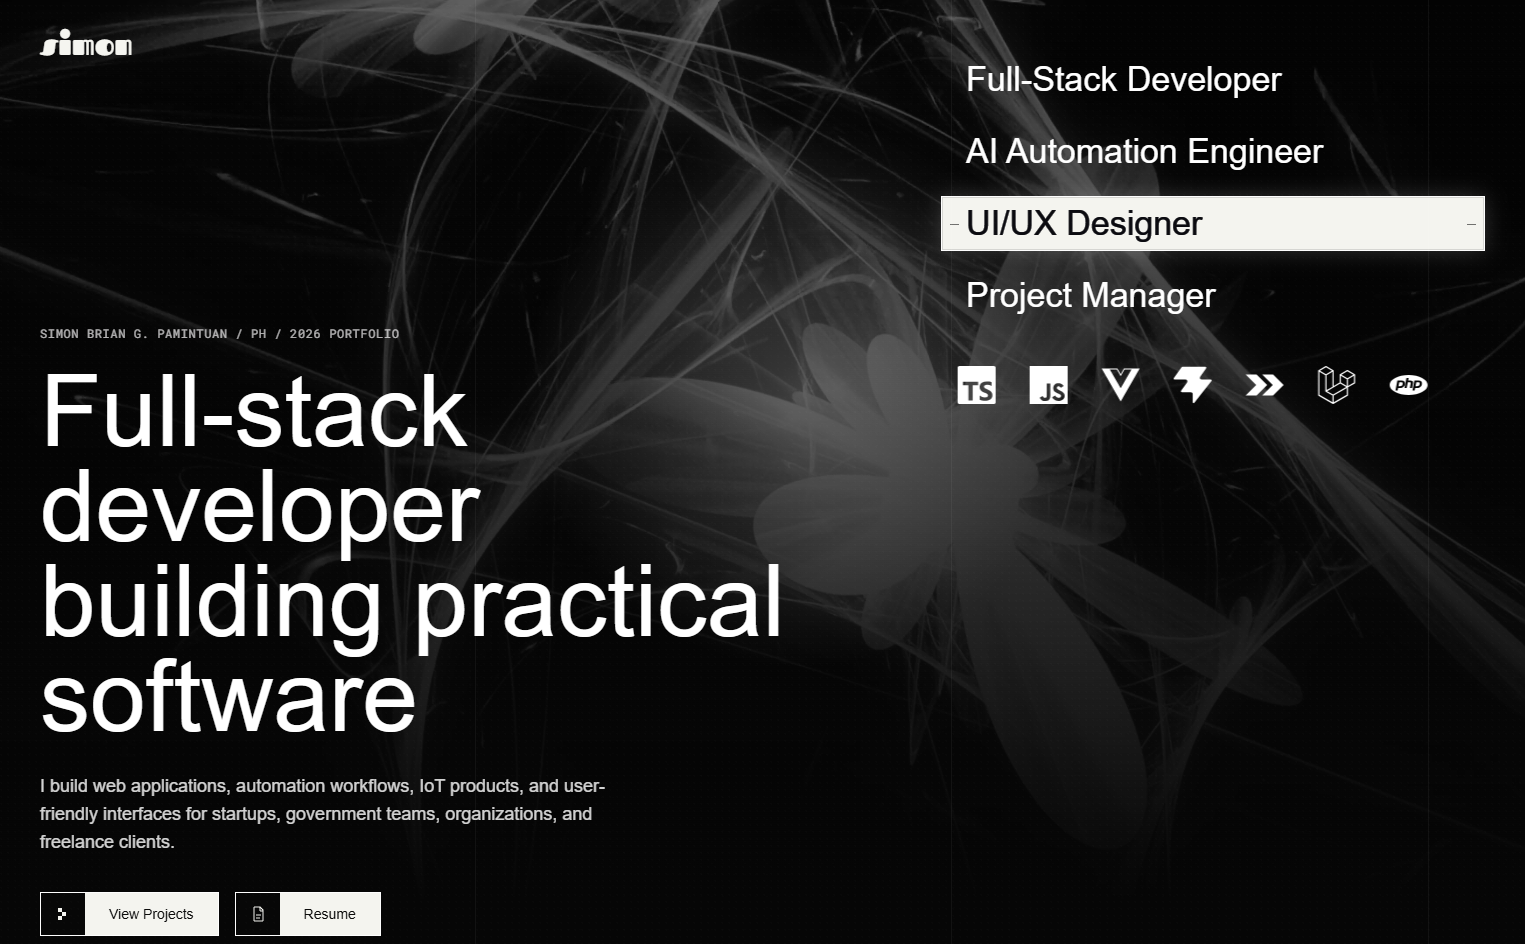
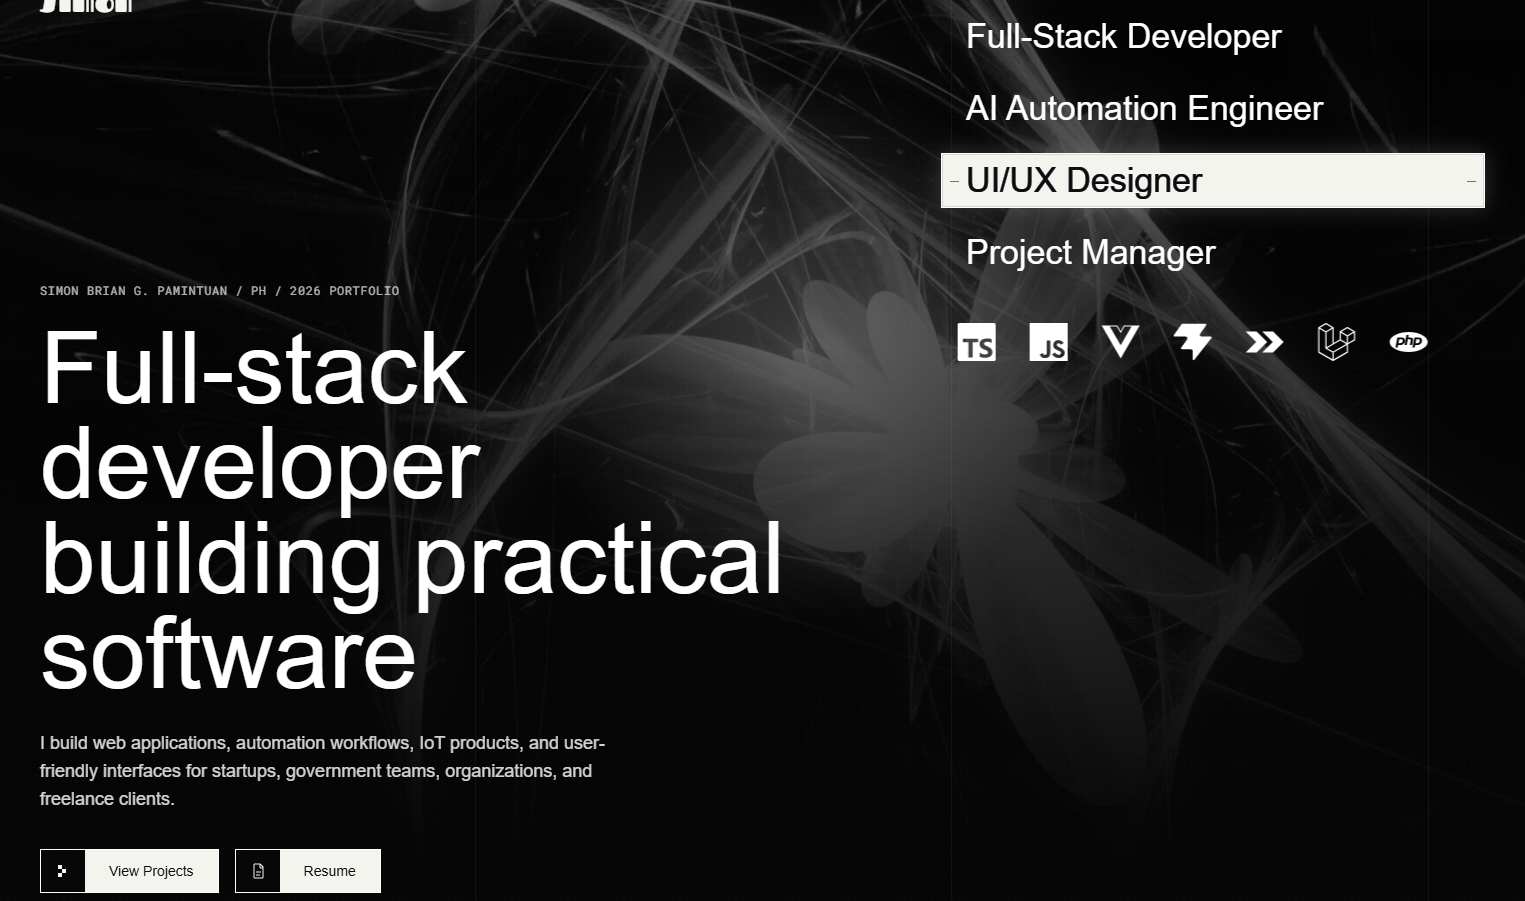
Final Furnish

diff --git a/src/index.css b/src/index.css
@@ -734,22 +734,6 @@ body {
   height: 46%;
 }
 
-.portfolio-hero__scroll {
-  position: absolute;
-  right: 6vw;
-  bottom: 26px;
-  display: flex;
-  align-items: center;
-  gap: 8px;
-  color: var(--portfolio-ink);
-  font-size: 12px;
-  font-weight: 700;
-  text-decoration: none;
-  text-transform: uppercase;
-  letter-spacing: 0.1em;
-  z-index: 4;
-}
-
 .portfolio-intro {
   position: relative;
   z-index: 3;
@@ -928,9 +912,17 @@ body {
   color: rgba(246, 247, 244, 0.66);
 }
 
+.work-card:nth-child(even) .work-card__disciplines {
+  border-color: rgba(246, 247, 244, 0.22);
+}
+
+.work-card:nth-child(even) .work-card__disciplines > p {
+  color: rgba(246, 247, 244, 0.48);
+}
+
 .work-card:nth-child(even) li {
+  border-color: rgba(246, 247, 244, 0.2);
   color: var(--portfolio-paper);
-  background: color-mix(in srgb, var(--project-accent) 28%, var(--portfolio-ink));
 }
 
 .work-card:nth-child(even) .work-card__footer a,
@@ -1036,23 +1028,70 @@ body {
   line-height: 1.7;
 }
 
-.work-card ul {
+.work-card__disciplines {
+  display: grid;
+  grid-template-columns: 30px minmax(0, 1fr);
+  gap: 16px;
+  align-items: stretch;
+  margin-top: 34px;
+}
+
+.work-card__disciplines > p {
+  align-self: stretch;
   display: flex;
-  flex-wrap: wrap;
-  gap: 6px;
-  margin: 24px 0 0;
+  align-items: flex-end;
+  margin: 0;
+  color: rgba(17, 21, 17, 0.46);
+  font-size: 9px;
+  font-weight: 800;
+  letter-spacing: 0.14em;
+  text-transform: uppercase;
+  writing-mode: vertical-rl;
+  transform: rotate(180deg);
+}
+
+.work-card ul {
+  counter-reset: focus-item;
+  display: flex;
+  flex-direction: column;
+  gap: 0;
+  margin: 0;
   padding: 0;
   list-style: none;
 }
 
 .work-card li {
-  padding: 6px 10px;
-  border-radius: 999px;
-  background: color-mix(in srgb, var(--project-accent) 28%, white);
-  font-size: 9px;
-  font-weight: 700;
+  counter-increment: focus-item;
+  display: grid;
+  grid-template-columns: 42px minmax(0, 1fr);
+  align-items: baseline;
+  width: 100%;
+  padding: 9px 0 8px;
+  border-bottom: 1px solid rgba(17, 21, 17, 0.18);
+  color: var(--portfolio-ink);
+  font-family: "Archivo", sans-serif;
+  font-size: clamp(13px, 1.2vw, 17px);
+  font-weight: 750;
   text-transform: uppercase;
-  letter-spacing: 0.06em;
+  letter-spacing: -0.01em;
+}
+
+.work-card li::before {
+  content: "0" counter(focus-item);
+  color: var(--project-accent);
+  font-size: 11px;
+  font-weight: 850;
+  letter-spacing: 0.04em;
+}
+
+.work-card li:nth-child(2) {
+  width: calc(100% - 18px);
+  margin-left: 18px;
+}
+
+.work-card li:nth-child(3) {
+  width: calc(100% - 36px);
+  margin-left: 36px;
 }
 
 .work-card__footer {
@@ -1529,6 +1568,21 @@ body {
 
   .work-card h3 {
     font-size: clamp(28px, 9vw, 42px);
+  }
+
+  .work-card__disciplines {
+    grid-template-columns: 24px minmax(0, 1fr);
+    gap: 12px;
+  }
+
+  .work-card li:nth-child(2) {
+    width: calc(100% - 12px);
+    margin-left: 12px;
+  }
+
+  .work-card li:nth-child(3) {
+    width: calc(100% - 24px);
+    margin-left: 24px;
   }
 
   .portfolio-footer {

diff --git a/src/components/Projects.tsx b/src/components/Projects.tsx
@@ -33,7 +33,7 @@ const projects: ShowcaseProject[] = [
     medium: 'video',
     asset: KibblerVideo,
     labels: ['IoT dashboard', 'Product UI', 'System design'],
-    accent: '#c7ef55'
+    accent: '#e66a1f'
   },
   {
     id: 'showcase-wavr',
@@ -56,7 +56,7 @@ const projects: ShowcaseProject[] = [
     description: 'A conversion-focused marketplace landing page with playful illustration and crisp message hierarchy.',
     medium: 'image',
     asset: MatchwrkImage,
-    links: [{ label: 'Prototype', url: 'https://www.figma.com/proto/2rpGH5XmGbYfgGS0KDANc9/Matchwrk?node-id=330-762&p=f&t=EYCuCb0Qs4gpBUho-0&scaling=min-zoom&content-scaling=fixed&page-id=25%3A145' }],
+    links: [{ label: 'Prototype', url: 'https://www.figma.com/proto/2rpGH5XmGbYfgGS0KDANc9/Matchwrk?node-id=330-762&p=f&t=EYCuCb0Qs4gpBUho-0&scaling=scale-down-width&content-scaling=fixed&page-id=25%3A145' }],
     labels: ['Landing page', 'Marketing UI', 'Visual design'],
     accent: '#fca4d9'
   },
@@ -178,9 +178,12 @@ const Projects = () => (
               </div>
               <h3>{project.statement}</h3>
               <p className="work-card__description">{project.description}</p>
-              <ul aria-label={`${project.name} disciplines`}>
-                {project.labels.map((label) => <li key={label}>{label}</li>)}
-              </ul>
+              <div className="work-card__disciplines">
+                <p>Design focus</p>
+                <ul aria-label={`${project.name} disciplines`}>
+                  {project.labels.map((label) => <li key={label}>{label}</li>)}
+                </ul>
+              </div>
             </div>
 
             <div className="work-card__footer">

diff --git a/src/components/Hero.tsx b/src/components/Hero.tsx
@@ -1,4 +1,4 @@
-import { FiArrowDownRight, FiFacebook, FiInstagram, FiMail } from 'react-icons/fi';
+import { FiFacebook, FiInstagram, FiMail } from 'react-icons/fi';
 import EyePair from './EyePair';
 import KibblerVideo from '../../pics/kibbler.mp4';
 import MatchwrkImage from '../../pics/Matchwrk.png';
@@ -64,9 +64,6 @@ const Hero = () => (
 
       <EyePair className="portfolio-hero__eyes" />
 
-      <a className="portfolio-hero__scroll" href="#projects">
-        Selected work <FiArrowDownRight />
-      </a>
     </header>
 
     <section className="portfolio-intro" aria-labelledby="intro-title">
@@ -74,7 +71,7 @@ const Hero = () => (
         <h2 id="intro-title">Hello, I’m Simon.</h2>
         <div className="portfolio-intro__actions" aria-label="Social links">
           <a href="https://www.facebook.com/saimeown/" target="_blank" rel="noreferrer" aria-label="Facebook"><FiFacebook /></a>
-          <a href="https://www.instagram.com/saimese._/" target="_blank" rel="noreferrer" aria-label="Instagram"><FiInstagram /></a>
+          <a href="https://www.instagram.com/saymese/" target="_blank" rel="noreferrer" aria-label="Instagram"><FiInstagram /></a>
           <a href="mailto:simonbriangarcia@gmail.com" aria-label="Email"><FiMail /></a>
         </div>
       </div>

diff --git a/src/components/Contact.tsx b/src/components/Contact.tsx
@@ -53,7 +53,7 @@ const Contact = () => {
         <div className="contact-panel__links">
           <a href="mailto:simonbriangarcia@gmail.com" aria-label="Email Simon"><FiMail /></a>
           <a href="https://www.facebook.com/saimeown/" target="_blank" rel="noreferrer" aria-label="Facebook"><FiFacebook /></a>
-          <a href="https://www.instagram.com/saimese._/" target="_blank" rel="noreferrer" aria-label="Instagram"><FiInstagram /></a>
+          <a href="https://www.instagram.com/saymese/" target="_blank" rel="noreferrer" aria-label="Instagram"><FiInstagram /></a>
         </div>
         <a className="contact-panel__email" href="mailto:simonbriangarcia@gmail.com">simonbriangarcia@gmail.com</a>
       </div>
